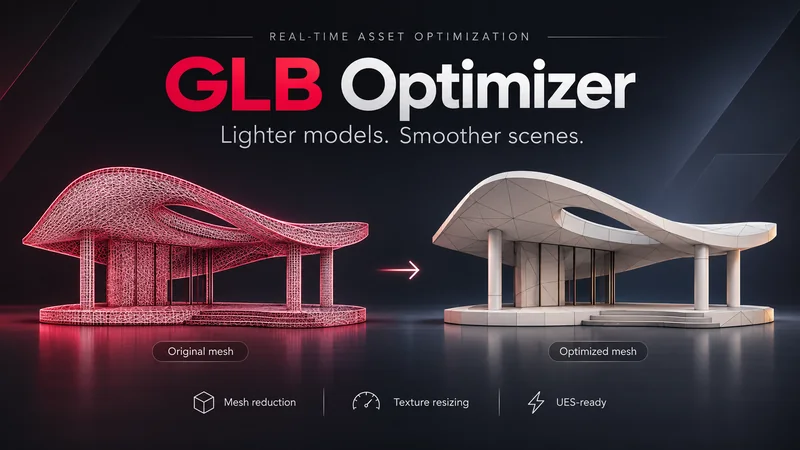
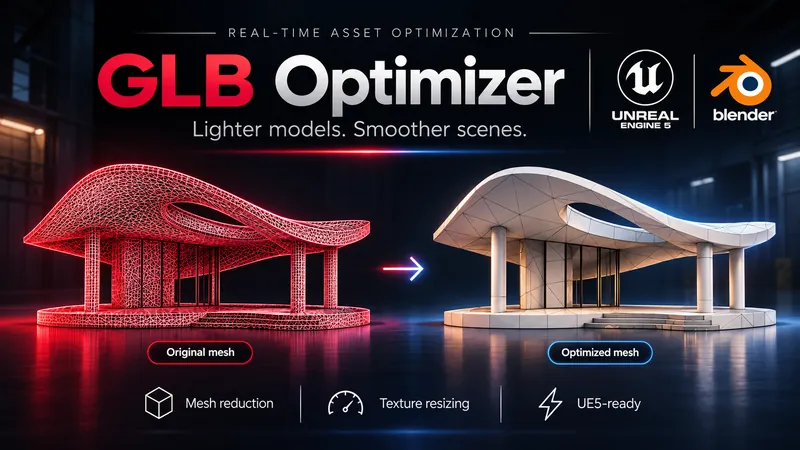
GLB Forge: updated cover image

diff --git a/src/partials/sections/work.html b/src/partials/sections/work.html
@@ -50,7 +50,7 @@
 
             <article class="pw-card pw-tool" data-cat="web" onclick="openProject('glbForge')">
                 <div class="pw-cover">
-                    <img src="assets/images/projects/glb-optimizer.webp?v=2" srcset="assets/images/projects/glb-optimizer-800.webp?v=2 800w, assets/images/projects/glb-optimizer.webp?v=2 1672w" sizes="(max-width: 768px) 92vw, 640px" alt="GLB Optimizer: lighter models, smoother scenes. Mesh reduction, texture resizing and UE5-ready assets." width="1672"
+                    <img src="assets/images/projects/glb-optimizer.webp?v=3" srcset="assets/images/projects/glb-optimizer-800.webp?v=3 800w, assets/images/projects/glb-optimizer.webp?v=3 1672w" sizes="(max-width: 768px) 92vw, 640px" alt="GLB Optimizer: lighter models, smoother scenes. Mesh reduction, texture resizing and UE5-ready assets." width="1672"
                         height="941" loading="lazy">
                 </div>
                 <div class="pw-body">

diff --git a/src/scripts/project-modal.js b/src/scripts/project-modal.js
@@ -164,7 +164,7 @@ const PROJECTS = {
         }
     },
     glbForge: {
-        img: "assets/images/projects/glb-optimizer.webp?v=2", cover: true, fullImg: true, type: "website", repo: true,
+        img: "assets/images/projects/glb-optimizer.webp?v=3", cover: true, fullImg: true, type: "website", repo: true,
         live: "https://github.com/manojpoudel9256/GLBOptimizer",
         en: {
             cs: ["For very complex objects, our team generates 3D models with Meshy AI. They often come out extremely dense — around a million triangles and ~20 MB — which makes Unreal Engine hang or crash on import.", "Built GLB Forge to simplify meshes and downscale textures locally in the browser, with a before/after 3D viewer to confirm the model still looks right.", "Typical results on our AI-generated models: about 1M → 100k triangles and ~20 MB → 4–5 MB, so they import cleanly and run smoothly in Unreal Engine."],
